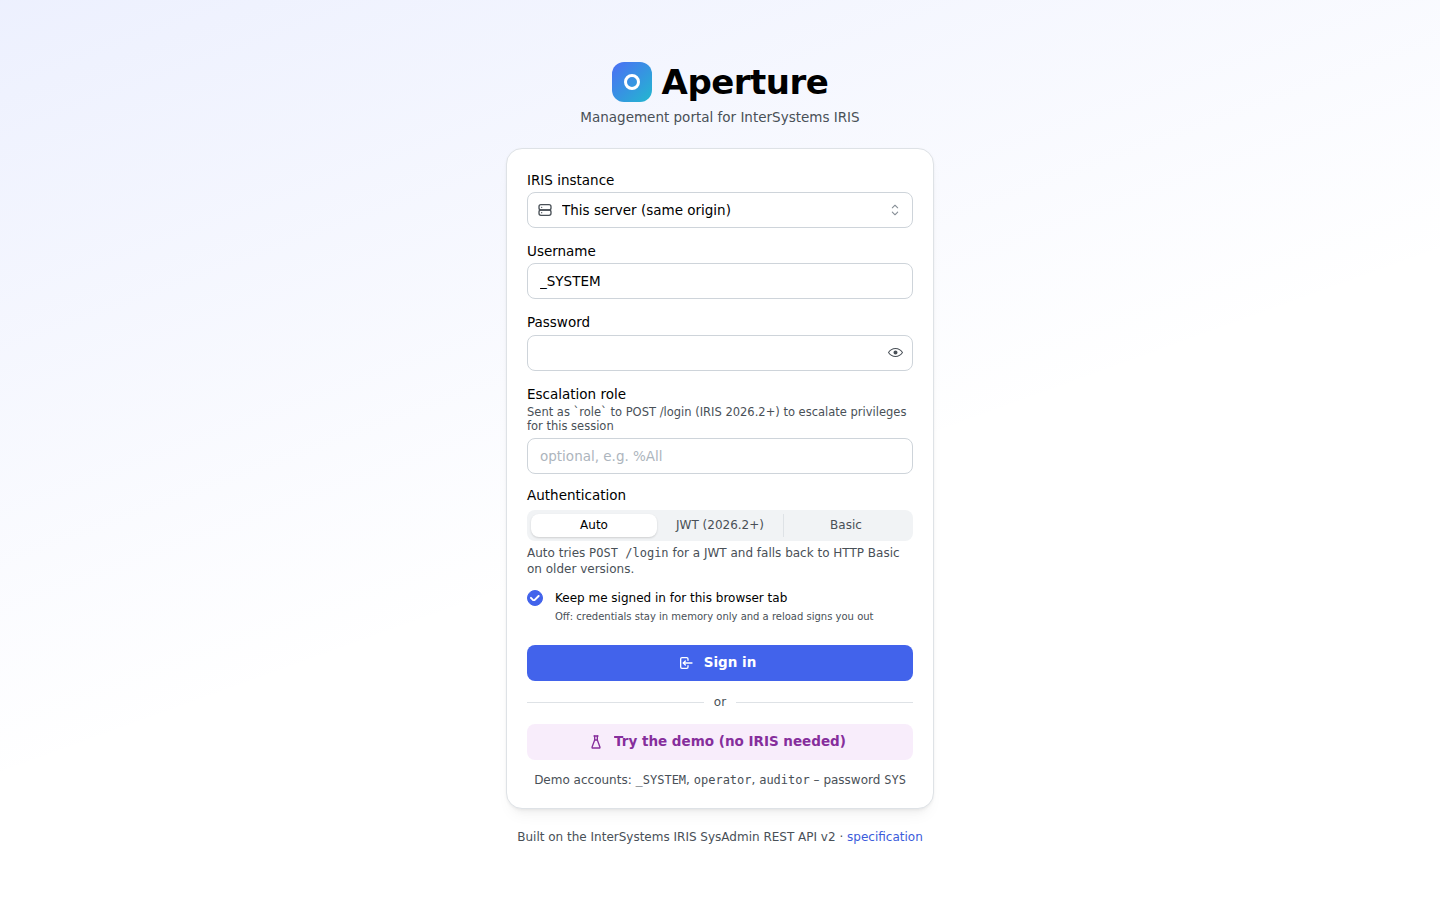
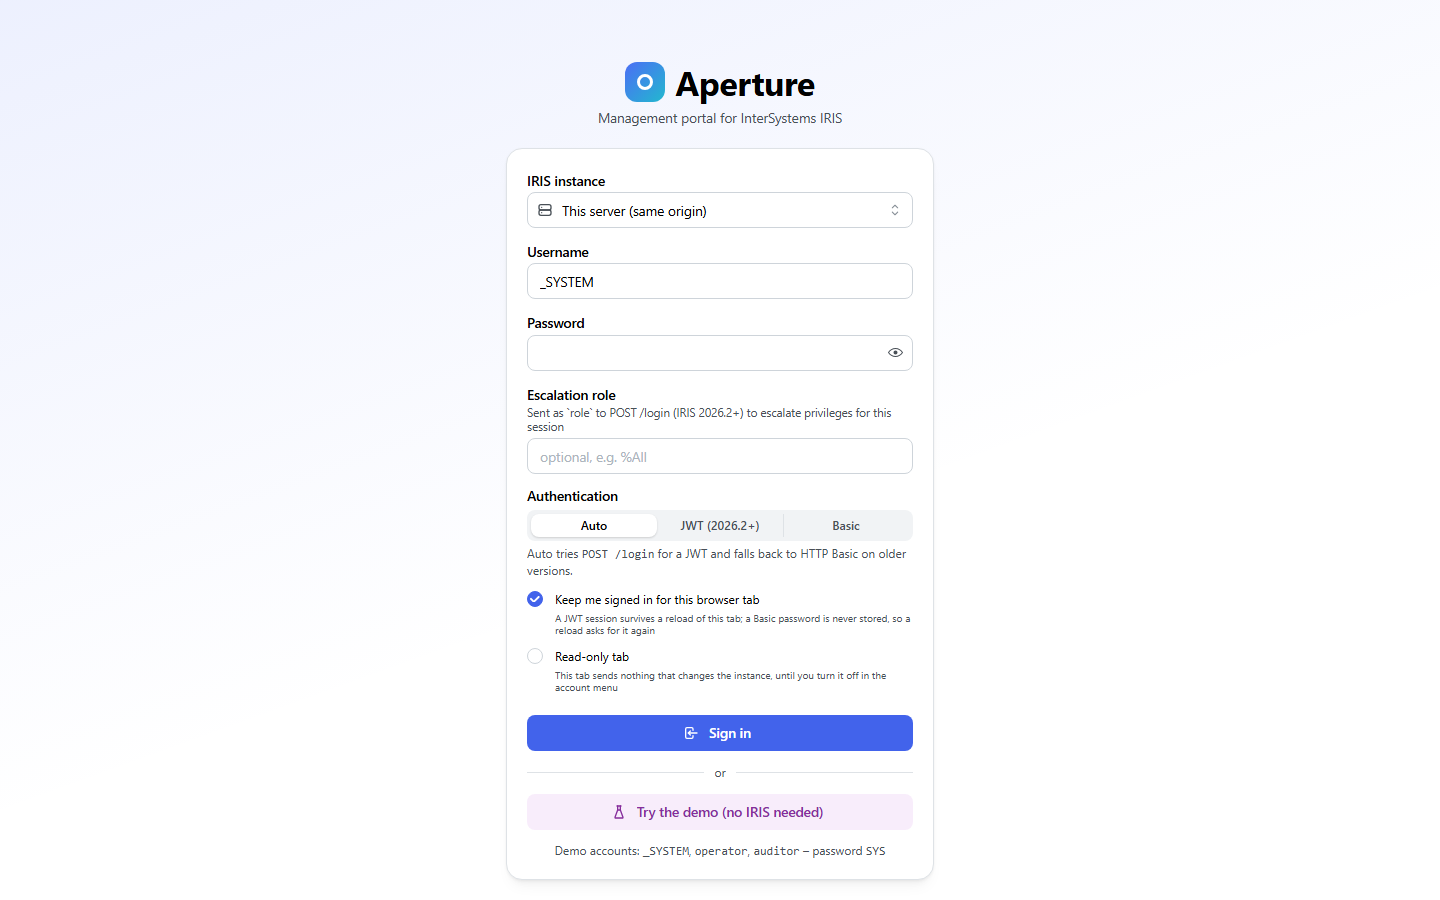
Screenshots refreshed, three new ones, and the README catches up
npm run smoke walks the demo build again with no failed step, console
error or failed request. New steps and screenshots: the "who loses what"
review of a role taken from a user (24), REST services with the routes
of /api/admin (23), and a read-only tab refusing a change (25). The
mobile screenshot now shows Processes: the step runs as the operator,
who may not read the database lists on IRIS 2026.2.

The README feature table gains permission safety (lock-out guard and
who loses what), REST services, read-only tabs and diff-only edits; the
gallery and the Open Exchange screenshot list include the new images.

Changed region(s): [[0.3438, 0.4356, 0.6562, 0.9644], [0.4062, 0.0622, 0.5938, 0.1556], [0.375, 0.1867, 0.5, 0.3733]]

diff --git a/README.md b/README.md
@@ -16,7 +16,10 @@ It is a single-page application (React 19 + TypeScript) that talks only to the
 [SysAdmin API v2](https://github.com/intersystems-community/sysadmin-api-specification) (`/api/admin`),
 covers **all 273 operations** of the specification, and adds the things the classic portal never had:
 a live dashboard, a Job Center for asynchronous operations, a command palette, privilege-aware
-navigation, dark mode, and an in-browser demo that needs no IRIS at all.
+navigation, a guard against locking every administrator out, a "who loses what" preview of
+permission changes, read-only tabs, discovery of every REST service on the instance, dark mode,
+and an in-browser demo that needs no IRIS at all. It was checked against real IRIS 2026.2
+instances, and the 20 places where the specification and IRIS disagree are listed below.
 
 ![Dashboard](docs/screenshots/02-dashboard.png)
 
@@ -125,23 +128,25 @@ Other scripts:
 
 ## What you get
 
-| Area                                                    | Screens                                                                                                                                                                                                                                                                     | Notable                                                                                       |
-| ------------------------------------------------------- | --------------------------------------------------------------------------------------------------------------------------------------------------------------------------------------------------------------------------------------------------------------------------- | --------------------------------------------------------------------------------------------- |
-| **Dashboard**                                           | live stats, sparklines, global refs/s and disk I/O charts, health, alerts, upcoming tasks, busy processes, resource seizes                                                                                                                                                  | polls `/v2/monitor/*` every 3 s, keeps history while you navigate                             |
-| **Job Center**                                          | every `202 Accepted` response, with console output, progress, pause / resume / cancel                                                                                                                                                                                       | fed automatically by the API client (Location header or body GUID); toasts on completion      |
-| **Activity**                                            | every change this tab sent and what the server answered, exportable as JSON; a security write can be matched to the `%System/%Security/*` audit record that proves it                                                                                                       | recorded by the client middleware; audit lookup runs as an async task around the request time |
-| **Host monitor**                                        | CPU, memory, disk, licence and alerts.log from the native `/api/monitor` service                                                                                                                                                                                            | OpenMetrics parsed in the browser; degrades to "unavailable" honestly                         |
-| **Databases**                                           | configuration + local file view, metrics (async), mount/dismount, compact, defragment, integrity check, truncate, expand, volumes, create, delete                                                                                                                           | dangerous actions require typing the name                                                     |
-| **Namespaces**                                          | create, delete, enable interoperability, copy mappings, global/package/routine mappings                                                                                                                                                                                     |                                                                                               |
-| **Processes**                                           | live list, detail with variables and roles, suspend/resume/terminate, broadcast                                                                                                                                                                                             |                                                                                               |
-| **Locks, Journals, Tasks, Web sessions, License, Logs** | lock removal with transaction check, journal files/records/settings/switching, task schedules + history + task manager (state re-read after every change), session ending, license key/usage/servers, a Logs hub over every log the API exposes                             |                                                                                               |
-| **Security**                                            | users, roles, resources, services, web applications (JWT, CORS), audit events + log + purge, TLS/SSL configs + test, X.509 credentials with certificate expiry, SQL privileges                                                                                              | secrets are redacted at the render boundary                                                   |
-| **API Explorer**                                        | every one of the 273 operations rendered from the OpenAPI document: parameters, request body form or JSON, privileges, documented responses, response as table / fields / JSON                                                                                              | reachable from the command palette                                                            |
-| **Everywhere**                                          | ⌘K command palette, privilege badges, raw JSON of every response with passwords, secrets, tokens and private keys redacted (and a count of what was hidden), responsive layout, multiple saved connections, escalation-role login, LIVE / OFFLINE / DEMO indicator          | `src/lib/redact.ts`                                                                           |
-| **Tables**                                              | filter, sort and page live in the URL (share a link to exactly what you see; Back restores it), column choices and page size are remembered per table, every table exports its filtered rows as CSV, "no rows" and "nothing matches your filter" are different messages     | `stateKey` / `exportName` on `DataTable`                                                      |
-| **Instances**                                           | each saved connection has a colour (a bar under the header, so production never looks like staging) and an optional time zone, browser-tab titles carry the instance name and its LIVE flag, and an account without `%Admin_Operate` lands on a screen it can use           | `docs/ARCHITECTURE.md` §2.10 for the time policy                                              |
-| **Appearance**                                          | light / dark / system theme plus an independent contrast axis (system / normal / high), applied before the first paint; live regions, keyboard-reachable tooltips, reduced-motion and forced-colors support; colour tokens and chart palettes tested for WCAG 2 AA contrast | Appearance menu; axe-core audits all four modes in CI                                         |
-| **Change review**                                       | every edit form shows old → new per field, re-reads the object to detect concurrent edits, and only then applies                                                                                                                                                            | `reviewChanges()` in `src/components/ReviewChanges.tsx`                                       |
+| Area                                                    | Screens                                                                                                                                                                                                                                                                                                                        | Notable                                                                                       |
+| ------------------------------------------------------- | ------------------------------------------------------------------------------------------------------------------------------------------------------------------------------------------------------------------------------------------------------------------------------------------------------------------------------ | --------------------------------------------------------------------------------------------- |
+| **Dashboard**                                           | live stats, sparklines, global refs/s and disk I/O charts, health, alerts, upcoming tasks, busy processes, resource seizes                                                                                                                                                                                                     | polls `/v2/monitor/*` every 3 s, keeps history while you navigate                             |
+| **Job Center**                                          | every `202 Accepted` response, with console output, progress, pause / resume / cancel                                                                                                                                                                                                                                          | fed automatically by the API client (Location header or body GUID); toasts on completion      |
+| **Activity**                                            | every change this tab sent and what the server answered, exportable as JSON; a security write can be matched to the `%System/%Security/*` audit record that proves it                                                                                                                                                          | recorded by the client middleware; audit lookup runs as an async task around the request time |
+| **Host monitor**                                        | CPU, memory, disk, licence and alerts.log from the native `/api/monitor` service                                                                                                                                                                                                                                               | OpenMetrics parsed in the browser; degrades to "unavailable" honestly                         |
+| **Databases**                                           | configuration + local file view, metrics (async), mount/dismount, compact, defragment, integrity check, truncate, expand, volumes, create, delete                                                                                                                                                                              | dangerous actions require typing the name                                                     |
+| **Namespaces**                                          | create, delete, enable interoperability, copy mappings, global/package/routine mappings                                                                                                                                                                                                                                        |                                                                                               |
+| **Processes**                                           | live list, detail with variables and roles, suspend/resume/terminate, broadcast                                                                                                                                                                                                                                                |                                                                                               |
+| **Locks, Journals, Tasks, Web sessions, License, Logs** | lock removal with transaction check, journal files/records/settings/switching, task schedules + history + task manager (state re-read after every change), session ending, license key/usage/servers, a Logs hub over every log the API exposes                                                                                |                                                                                               |
+| **Security**                                            | users, roles, resources, services, web applications (JWT, CORS), audit events + log + purge, TLS/SSL configs + test, X.509 credentials with certificate expiry, SQL privileges                                                                                                                                                 | secrets are redacted at the render boundary                                                   |
+| **Permission safety**                                   | a change to a user or a role that would leave no enabled account holding %All or %Admin_Secure:U is refused; every such change lists, per account it reaches, the privileges lost and gained, counting granted roles and public permissions                                                                                    | `features/security/adminGuard.ts`, `impact.ts`                                                |
+| **REST services**                                       | every REST web application of the instance, the spec-first classes no application serves, and the routes each one declares, from `/api/mgmnt` (outside the SysAdmin API)                                                                                                                                                       | a JWT session gives the password once, kept in the tab's memory only                          |
+| **API Explorer**                                        | every one of the 273 operations rendered from the OpenAPI document: parameters, request body form or JSON, privileges, documented responses, response as table / fields / JSON                                                                                                                                                 | reachable from the command palette                                                            |
+| **Everywhere**                                          | ⌘K command palette, privilege badges, raw JSON of every response with passwords, secrets, tokens and private keys redacted (and a count of what was hidden), responsive layout, multiple saved connections, escalation-role login, LIVE / OFFLINE / DEMO indicator, read-only tabs that send nothing that changes the instance | `src/lib/redact.ts`                                                                           |
+| **Tables**                                              | filter, sort and page live in the URL (share a link to exactly what you see; Back restores it), column choices and page size are remembered per table, every table exports its filtered rows as CSV, "no rows" and "nothing matches your filter" are different messages                                                        | `stateKey` / `exportName` on `DataTable`                                                      |
+| **Instances**                                           | each saved connection has a colour (a bar under the header, so production never looks like staging) and an optional time zone, browser-tab titles carry the instance name and its LIVE flag, and an account without `%Admin_Operate` lands on a screen it can use                                                              | `docs/ARCHITECTURE.md` §2.10 for the time policy                                              |
+| **Appearance**                                          | light / dark / system theme plus an independent contrast axis (system / normal / high), applied before the first paint; live regions, keyboard-reachable tooltips, reduced-motion and forced-colors support; colour tokens and chart palettes tested for WCAG 2 AA contrast                                                    | Appearance menu; axe-core audits all four modes in CI                                         |
+| **Change review**                                       | every edit form shows old → new per field, re-reads the object to detect concurrent edits, and only then applies; where IRIS merges a PUT, only the changed fields are sent                                                                                                                                                    | `reviewChanges()` in `src/components/ReviewChanges.tsx`                                       |
 
 <details>
 <summary>More screenshots</summary>
@@ -155,6 +160,8 @@ Other scripts:
 | ![Mobile](docs/screenshots/15-mobile.png)                 | ![Host monitor](docs/screenshots/16-monitor.png)            |
 | ![Certificates](docs/screenshots/20-certificates.png)     | ![Logs](docs/screenshots/21-logs.png)                       |
 | ![Audit evidence](docs/screenshots/22-audit-evidence.png) | ![Change review](docs/screenshots/17-review.png)            |
+| ![Who loses what](docs/screenshots/24-who-loses-what.png) | ![REST services](docs/screenshots/23-rest-services.png)     |
+| ![Read-only tab](docs/screenshots/25-read-only.png)       | ![Operator](docs/screenshots/14-operator.png)               |
 
 </details>
 
